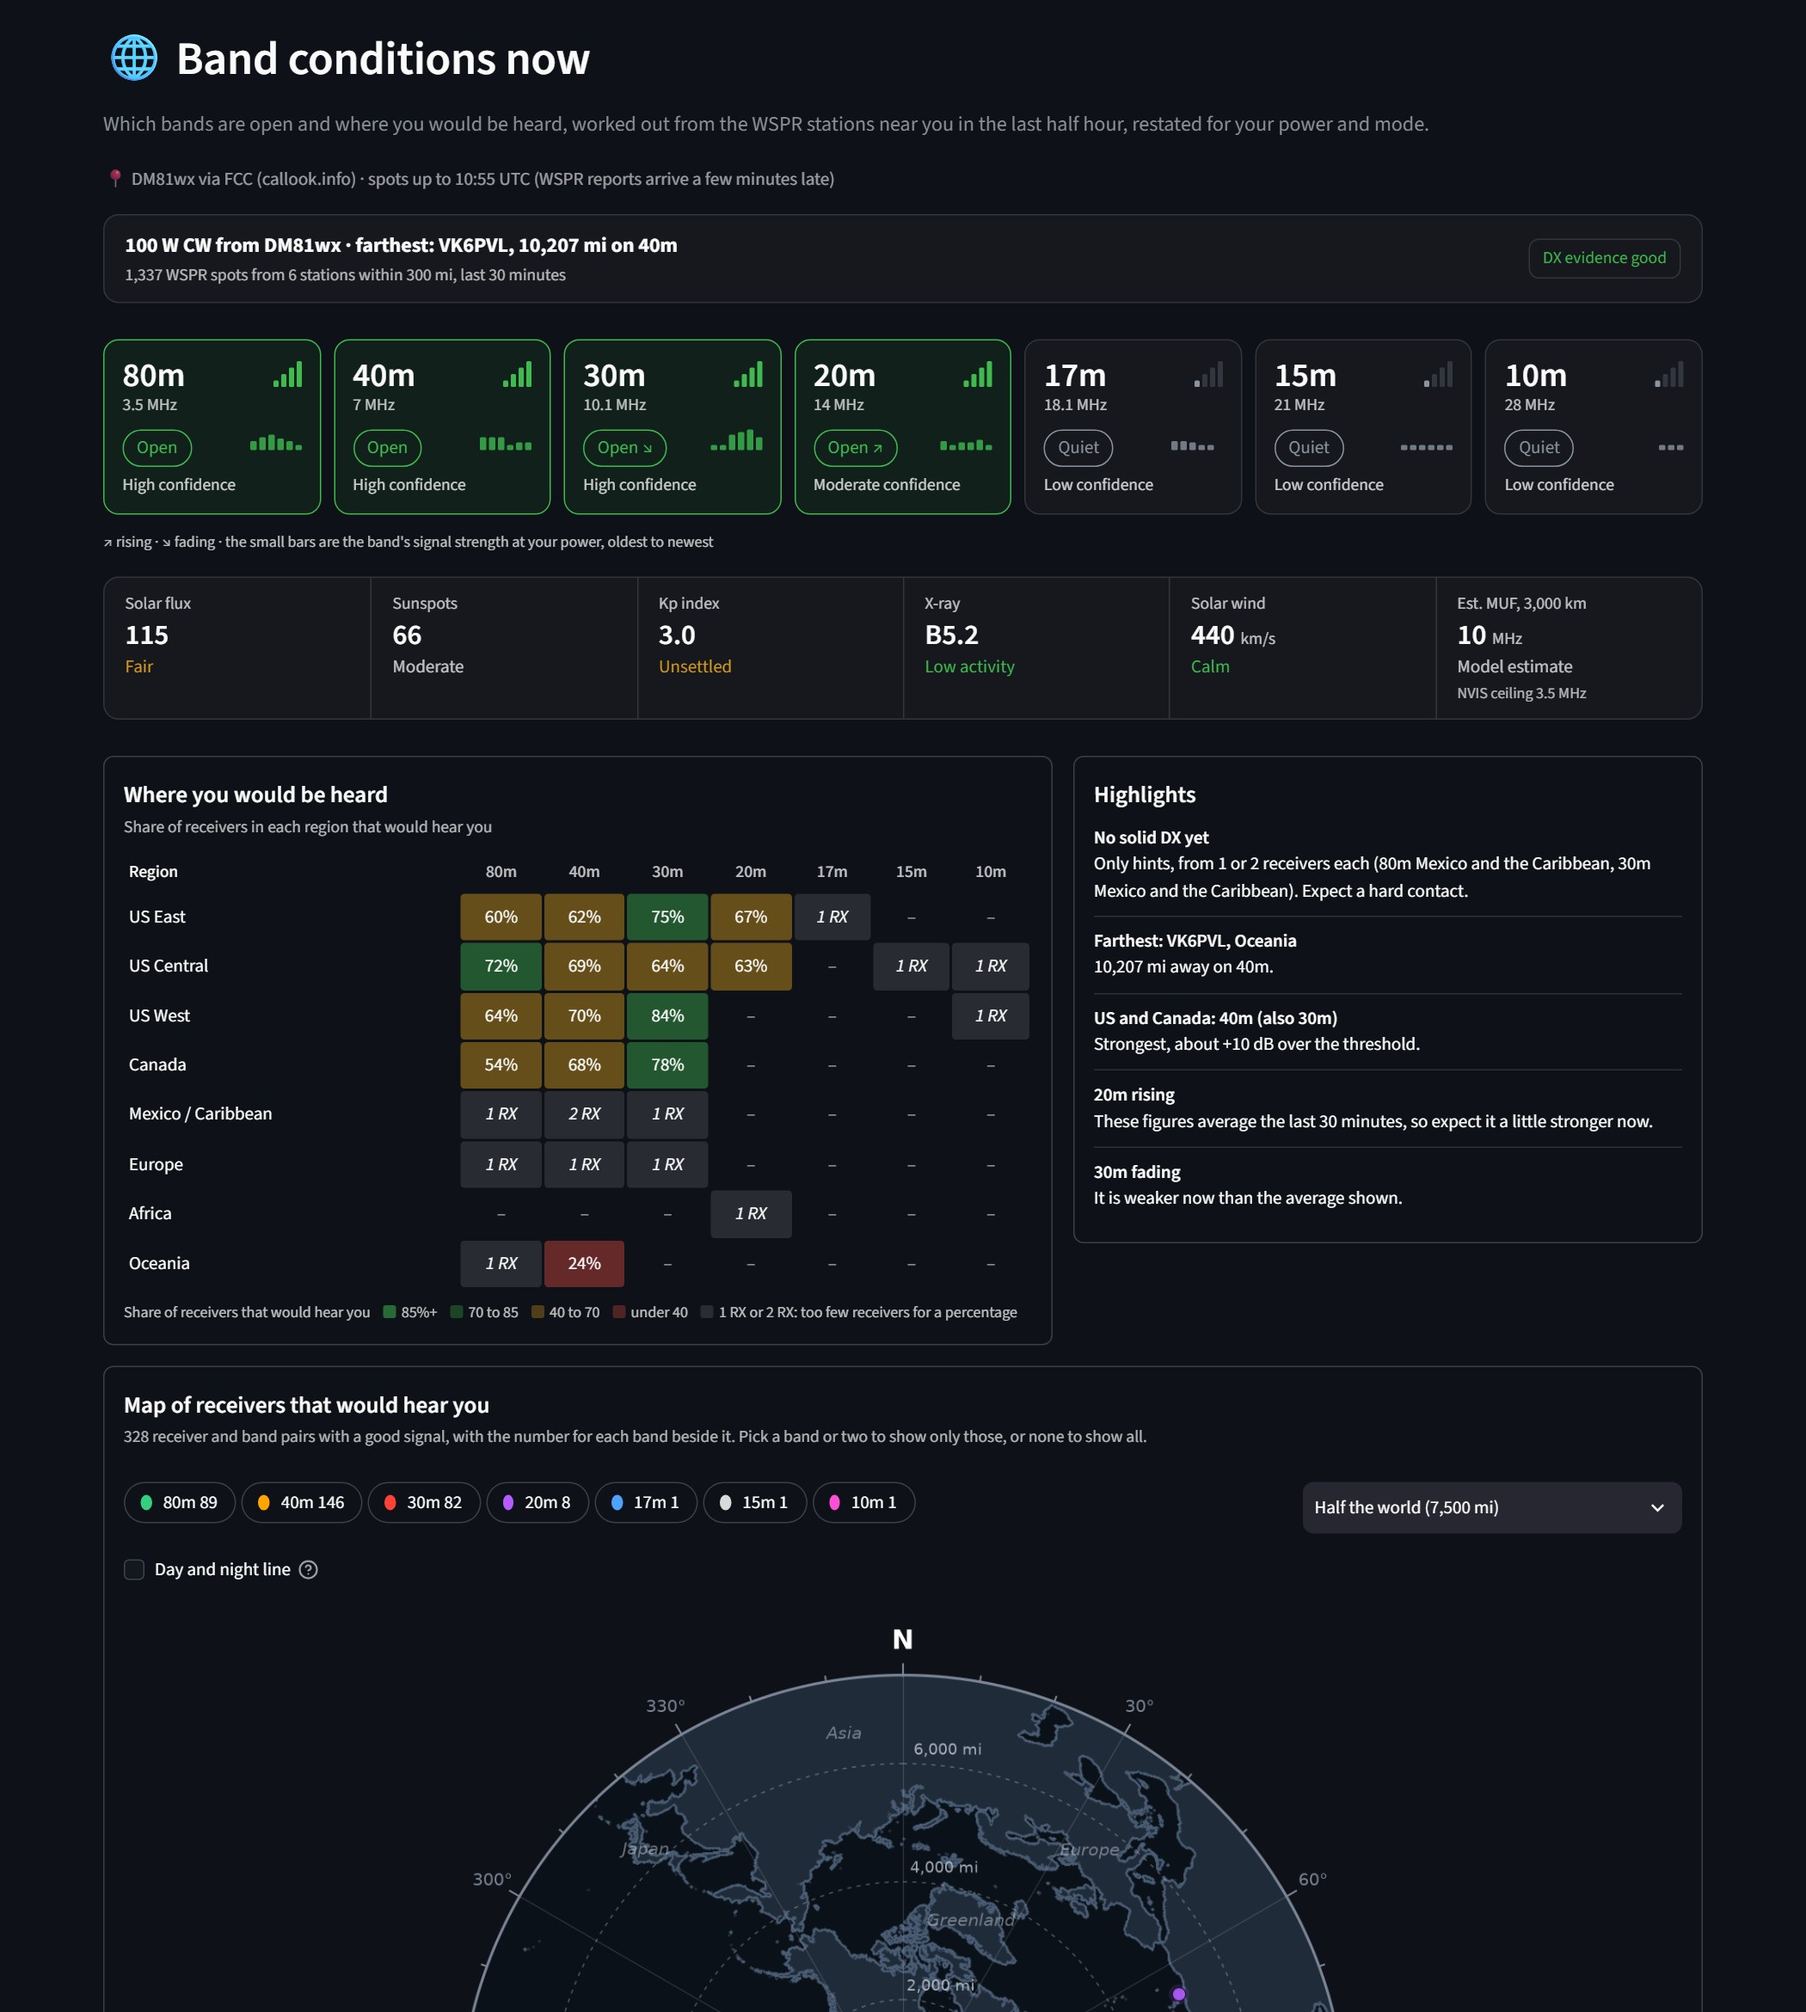
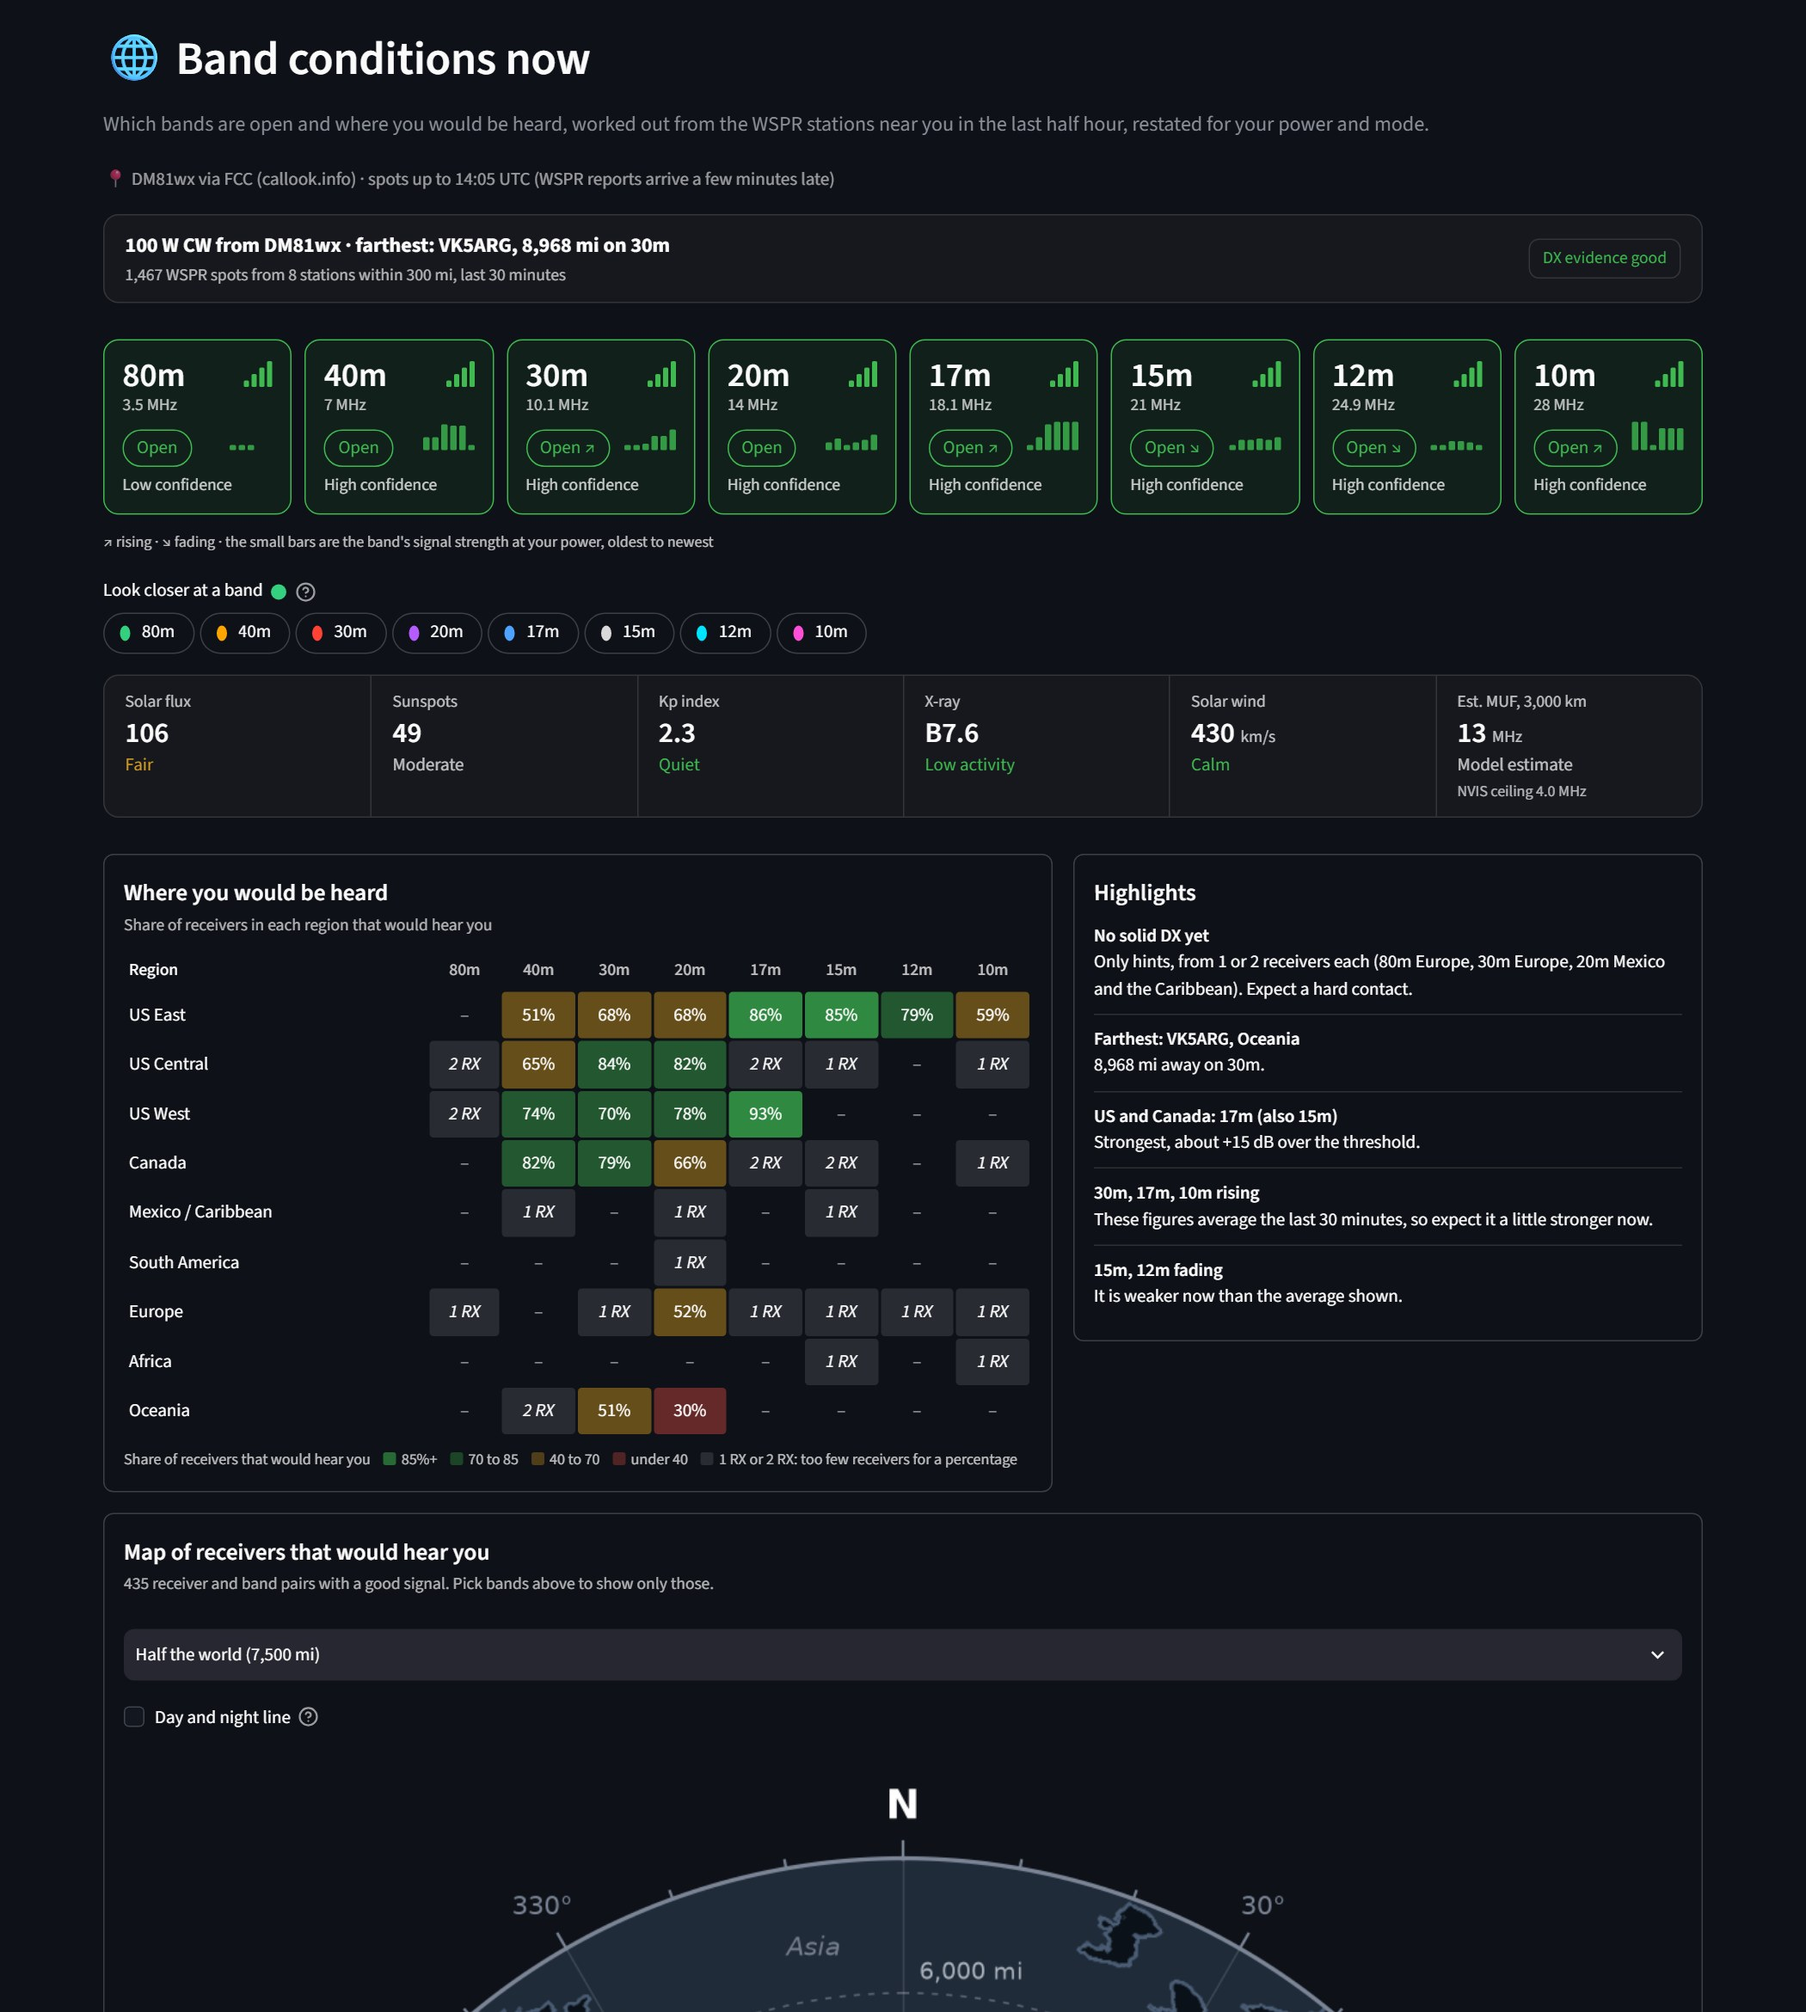
Test links keep a pasted schedule and hand-corrected antenna cells; hide the steps strip after confirming; new README screenshots

diff --git a/views/test_link.py b/views/test_link.py
@@ -5,6 +5,7 @@ import re
 BLOCKS = "In long blocks"
 ORDERS = {"abab": "A, B, A, B …", "abba": "A, B, B, A …"}
 _TIME = re.compile(r"^(\d{1,2} [A-Za-z]{3} )?\d{2}:\d{2}$")
+_EDIT = re.compile(r"^(\d{1,3})([ABX])$")
 
 
 def _int(text, low, high):
@@ -21,7 +22,7 @@ def read(ss, q):
     if ss.get("_test_link_read"):
         return
     ss["_test_link_read"] = True
-    if any(q.get(p) for p in ("na", "nb", "sw", "n", "ts", "ord", "bl", "bn", "bs")):
+    if any(q.get(p) for p in ("na", "nb", "sw", "n", "ts", "ord", "bl", "bn", "bs", "bp", "ed")):
         ss["_setup_given"] = True  # the link carries the test's setup, so there is nothing to confirm
     for param, key in (("na", "cmp_name_a"), ("nb", "cmp_name_b")):
         if q.get(param):
@@ -40,7 +41,15 @@ def read(ss, q):
         length = _int(q.get("bl"), 4, 480)
         if length:
             ss["blk_len"] = length
-        ss["_blk_pending"] = {"n": _int(q.get("bn"), 2, 40), "start": q.get("bs", "")[:16]}
+        pasted = "\n".join(line.strip() for line in q.get("bp", "")[:1500].split(";") if line.strip())
+        ss["_blk_pending"] = {"n": _int(q.get("bn"), 2, 40), "start": q.get("bs", "")[:16], "paste": pasted}
+    edits = {}
+    for item in q.get("ed", "")[:600].split(","):
+        m = _EDIT.match(item.strip())
+        if m:
+            edits[int(m[1])] = None if m[2] == "X" else m[2]
+    if edits and not blocks:
+        ss["_log_pending"] = edits
     reports = _int(q.get("mr"), 1, 60)
     if reports:
         ss["rx_min_reports_blk" if blocks else "rx_min_reports_pair"] = reports
@@ -63,6 +72,19 @@ def apply_blocks(ss, sig):
         ss[f"blk_n_{sig}"] = pending["n"] - pending["n"] % 2
     if pending["start"]:
         ss[f"blk_start_{sig}"] = pending["start"]
+    if pending.get("paste"):
+        ss[f"blk_paste_{sig}"] = pending["paste"]
+
+
+def log_base(ss, key):
+    """The antenna cells a link corrected by hand, for the quick test's table whose widget key is `key`: {row: 'A', 'B' or None}.
+    Streamlit does not let a page set an editable table's edits, so these go into the table's starting values instead, and stay
+    the same for as long as the table's key does."""
+    pending = ss.pop("_log_pending", None)
+    if pending:
+        ss["_log_base"] = {"key": key, "edits": pending}
+    base = ss.get("_log_base")
+    return base["edits"] if base and base["key"] == key else {}
 
 
 def params(ss, units):
@@ -81,6 +103,10 @@ def params(ss, units):
             found = [k for k in ss if isinstance(k, str) and k.startswith(prefix)]
             if len(found) == 1 and ss[found[0]]:
                 out[param] = str(ss[found[0]])
+        found = [k for k in ss if isinstance(k, str) and k.startswith("blk_paste_")]
+        if len(found) == 1 and (ss[found[0]] or "").strip():
+            lines = [line.strip() for line in ss[found[0]].splitlines() if line.strip()]
+            out["bp"] = ";".join(lines)[:1500]
         order = reverse.get(ss.get("blk_order"))
     else:
         if ss.get("test_cycles"):
@@ -88,6 +114,17 @@ def params(ss, units):
         if ss.get("test_start") not in (None, "Latest"):
             out["ts"] = str(ss["test_start"])
         order = reverse.get(ss.get("test_order"))
+        logs = [k for k in ss if isinstance(k, str) and k.startswith("antenna_log_")]
+        if len(logs) == 1:
+            base = ss.get("_log_base")
+            cells = dict(base["edits"]) if base and base["key"] == logs[0] else {}
+            if isinstance(ss[logs[0]], dict):
+                for row, change in (ss[logs[0]].get("edited_rows") or {}).items():
+                    if "Antenna" in change:
+                        cells[int(row)] = change["Antenna"]
+            items = [f"{row}{'X' if lab is None else lab}" for row, lab in sorted(cells.items())]
+            if items:
+                out["ed"] = ",".join(items)
     if order and order != "abab":
         out["ord"] = order
     reports = ss.get("rx_min_reports_blk" if blocks else "rx_min_reports_pair")

diff --git a/views/compare_page.py b/views/compare_page.py
@@ -19,13 +19,12 @@ STEPS_CSS = """<style>
 </style>"""
 
 
-def _steps(loaded, comparing_rbn, confirmed=False):
-    """The three steps of a comparison as a row, with where you are marked."""
-    states = (["done", "done", "now"] if confirmed else ["done", "now", "next"]) if loaded else ["now", "next", "next"]
+def _steps(loaded, comparing_rbn):
+    """The three steps of a comparison as a row, with where you are marked. Shown until the setup is confirmed."""
+    states = ["done", "now", "next"] if loaded else ["now", "next", "next"]
     labels = [("Load your spots", "in the sidebar (the » at the top left on a phone)"),
-              ("Say how you switched", ("I guessed it: check it below, then confirm" if loaded and not confirmed else "change it under the verdict"
-                                                                              if loaded else "which antenna, and when")
-               if not comparing_rbn else "which frequency was which"),
+              ("Say how you switched", "I guessed it: check it below, then confirm" if loaded
+               else "which frequency was which" if comparing_rbn else "which antenna, and when"),
               ("Read the result", "the verdict and the evidence")]
     cells = "".join(f'<div class="{state}"><b>{"&#10003;" if state == "done" else n}</b><div style="border:0;background:none;padding:0;'
                     f'display:block"><span>{head}</span><small>{sub}</small></div></div>'
@@ -91,7 +90,8 @@ def compare_page():
 def _result(ss, skimmers, where, view):
     """Everything under the title once spots are (or are not yet) loaded."""
     loaded = ss.raw is not None and not ss.raw.empty
-    _steps(loaded, comparing_rbn=where.kind == "RBN", confirmed=bool(ss.get("setup_ok")))
+    if not (loaded and ss.get("setup_ok")):  # once the setup is confirmed the strip has done its job; the result gets the room
+        _steps(loaded, comparing_rbn=where.kind == "RBN")
     if ss.raw is None:
         quick, rbn, long_ = st.columns(3)
         quick.button("Try the quick example", key="hero_quick", type="primary", width="stretch", on_click=inputs.start_example,

diff --git a/views/compare_view.py b/views/compare_view.py
@@ -216,6 +216,7 @@ def _separate_by_log(spots):
         st.caption("\u26a0 Some cycles are missing between these rows (the transmitter skipped them, or nobody heard "
                    "them). The labels assume you changed antenna after each transmission you made; if you changed on "
                    "a timer instead, correct the rows after each gap.")
+    log_key = f"antenna_log_{pattern}_{len(stamps)}_{stamps[0]:%d%H%M}"
     heard = spots.groupby("time")["spotter"].nunique()
     right_now = pd.Timestamp(datetime.now(timezone.utc).replace(tzinfo=None))
     arriving = [(right_now - t).total_seconds() / 60 < DATA_LAG_MINUTES for t in stamps]
@@ -226,8 +227,11 @@ def _separate_by_log(spots):
                           "Status": [("\u23f3 may be incomplete" if late else
                                       (f"\u26a0 {gap:.0f} min after the row above" if gap > 2.5 else ""))
                                      for late, gap in zip(arriving, gaps)]})
+    for row, lab in test_link.log_base(st.session_state, log_key).items():  # corrections a shared link carried
+        if row < len(table):
+            table.loc[row, "Antenna"] = lab
     edited = st.data_editor(
-        table, key=f"antenna_log_{pattern}_{len(stamps)}_{stamps[0]:%d%H%M}", hide_index=True, width="stretch",
+        table, key=log_key, hide_index=True, width="stretch",
         disabled=["UTC time", "Receivers that heard it", "Status"], height=min(35 * (len(table) + 1) + 3, 420),
         column_config={"Antenna": st.column_config.SelectboxColumn("Antenna", options=["A", "B"],
                                                                    help="A, B, or empty to leave this one out.")})

diff --git a/tests/test_app.py b/tests/test_app.py
@@ -147,6 +147,23 @@ class ComparePage(unittest.TestCase):
         self.assertTrue(any("call=K5OHY" in c.value for c in at.sidebar.code))
 
     @needs_network
+    def test_hand_corrected_antenna_cells_travel_in_the_link(self):
+        at = page("compare_page", call="K5OHY", src="wspr", date="2026-10-04", band="20m", go="1", n="12", ord="abba",
+                  ed="3B,5X").run()
+        self.assertEqual(errors(at), [])
+        link = [c.value for c in at.sidebar.code if "call=K5OHY" in c.value][0]
+        self.assertIn("ed=3B%2C5X", link)
+
+    @needs_network
+    def test_a_pasted_block_schedule_travels_in_the_link(self):
+        schedule = "12:00-12:30 A;12:30-13:00 B;13:00-13:30 A;13:30-14:00 B"
+        at = page("compare_page", call="N3HXZ", src="wspr", date="2026-08-26", band="20m", go="1", sw="blocks", bl="30",
+                  bp=schedule).run()
+        self.assertEqual(errors(at), [])
+        link = [c.value for c in at.sidebar.code if "call=N3HXZ" in c.value][0]
+        self.assertIn("bp=12%3A00-12%3A30+A%3B12%3A30-13%3A00+B", link)
+
+    @needs_network
     def test_your_own_spots_wait_for_you_to_confirm_the_setup(self):
         at = page("compare_page", call="K5OHY", src="wspr", date="2026-10-04", band="20m", go="1").run()
         self.assertEqual(errors(at), [])

diff --git a/README.md b/README.md
@@ -41,7 +41,7 @@ See where your signal is heard, how strong it is, and how conditions change. Map
 3. Pick where the spots come from, then click **Load spots**. To test antennas, open the **Compare antennas** page: it shows the three steps (load your spots, say how you switched, read the result) and explains how to run a good test.
 4. Use the filters in the sidebar, and download the map, a PDF report, or the spots and tables as CSV if you want to share or keep them.
 
-**Share what you are looking at.** Once spots are loaded, the sidebar shows a link to this view and your browser's address bar holds the same link. Send it to someone and they land on the same callsign, date and band, with the spots already loaded. The same link also brings your sidebar choices back if you refresh the page or your computer sleeps. On the Compare page the link also carries the whole test: the antenna names, how you switched, the start and order, and the averaging choices, so the person you send it to sees the same verdict.
+**Share what you are looking at.** Once spots are loaded, the sidebar shows a link to this view and your browser's address bar holds the same link. Send it to someone and they land on the same callsign, date and band, with the spots already loaded. The same link also brings your sidebar choices back if you refresh the page or your computer sleeps. On the Compare page the link also carries the whole test: the antenna names, how you switched, the start and order, a pasted block schedule, any antenna cells you corrected by hand, and the averaging choices, so the person you send it to sees the same verdict.
 
 Free hosting can fall asleep: click the button to wake it. A local copy also remembers your settings in `settings.json`.
 
